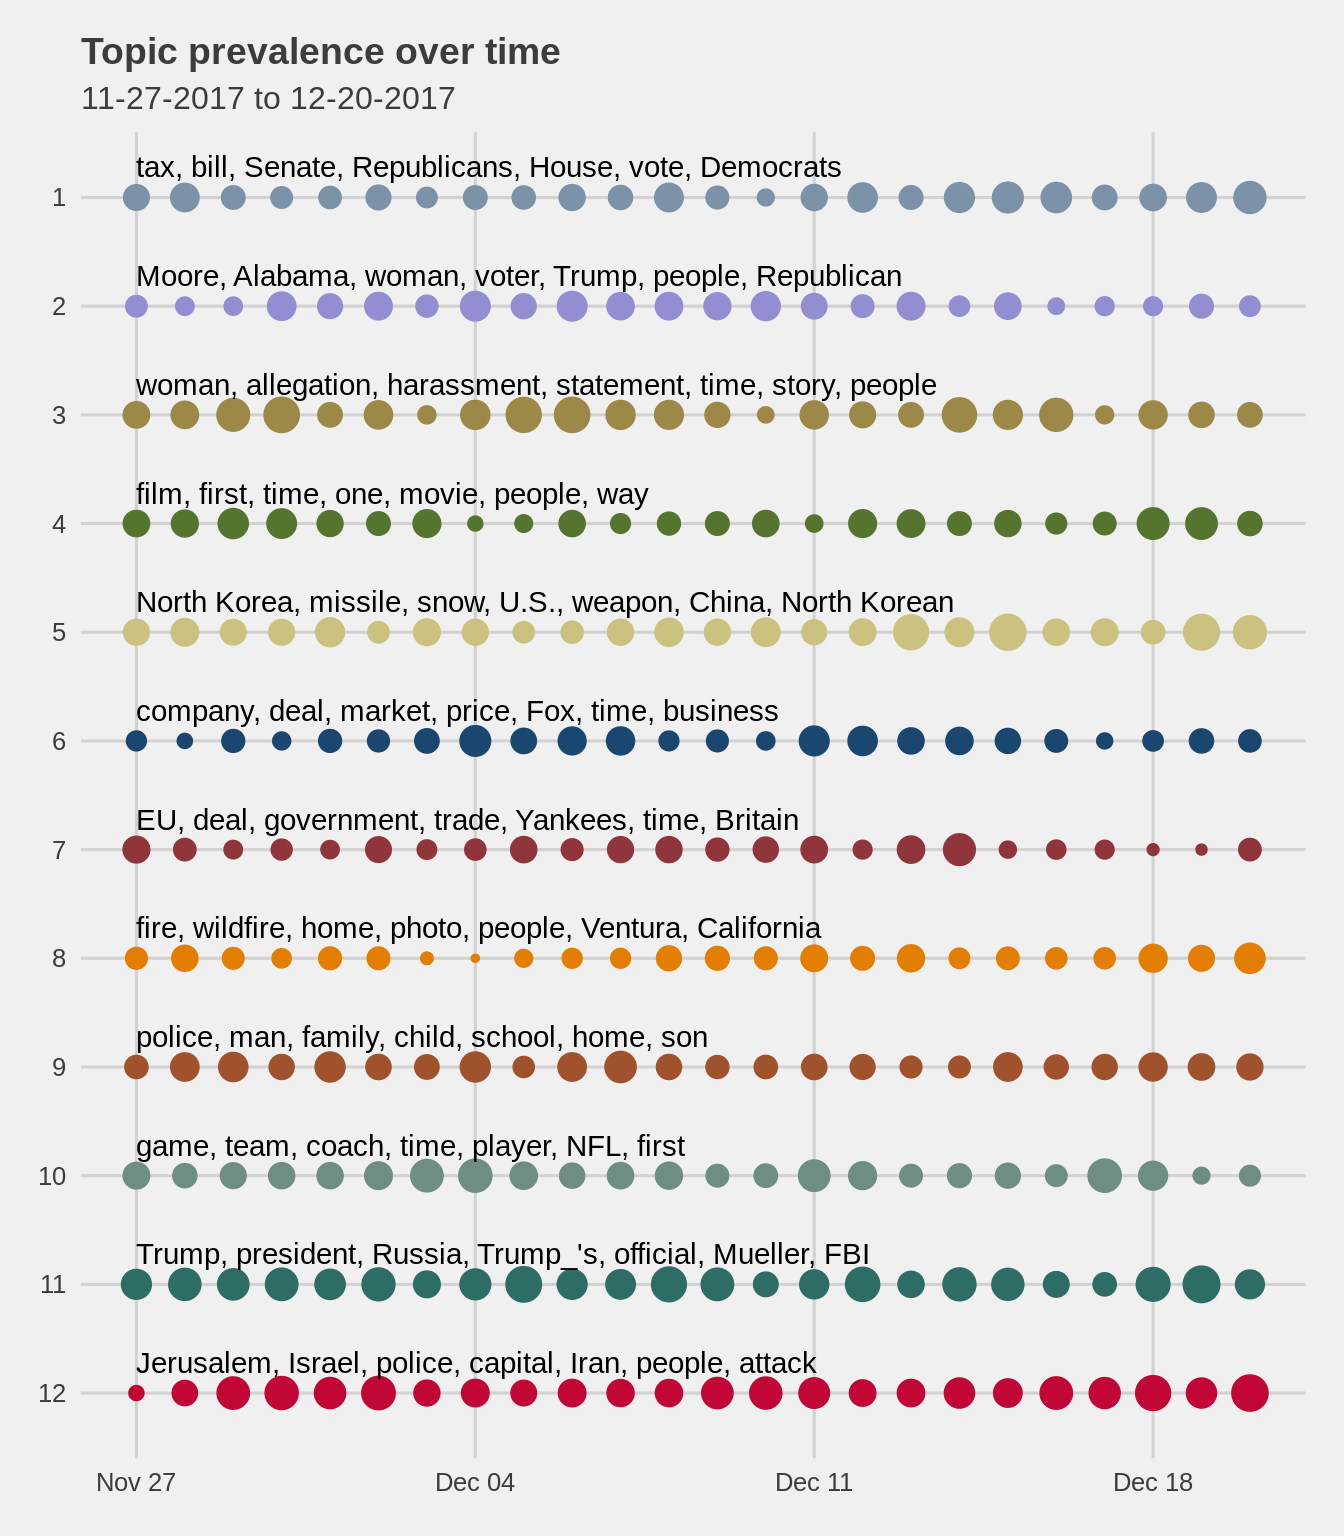
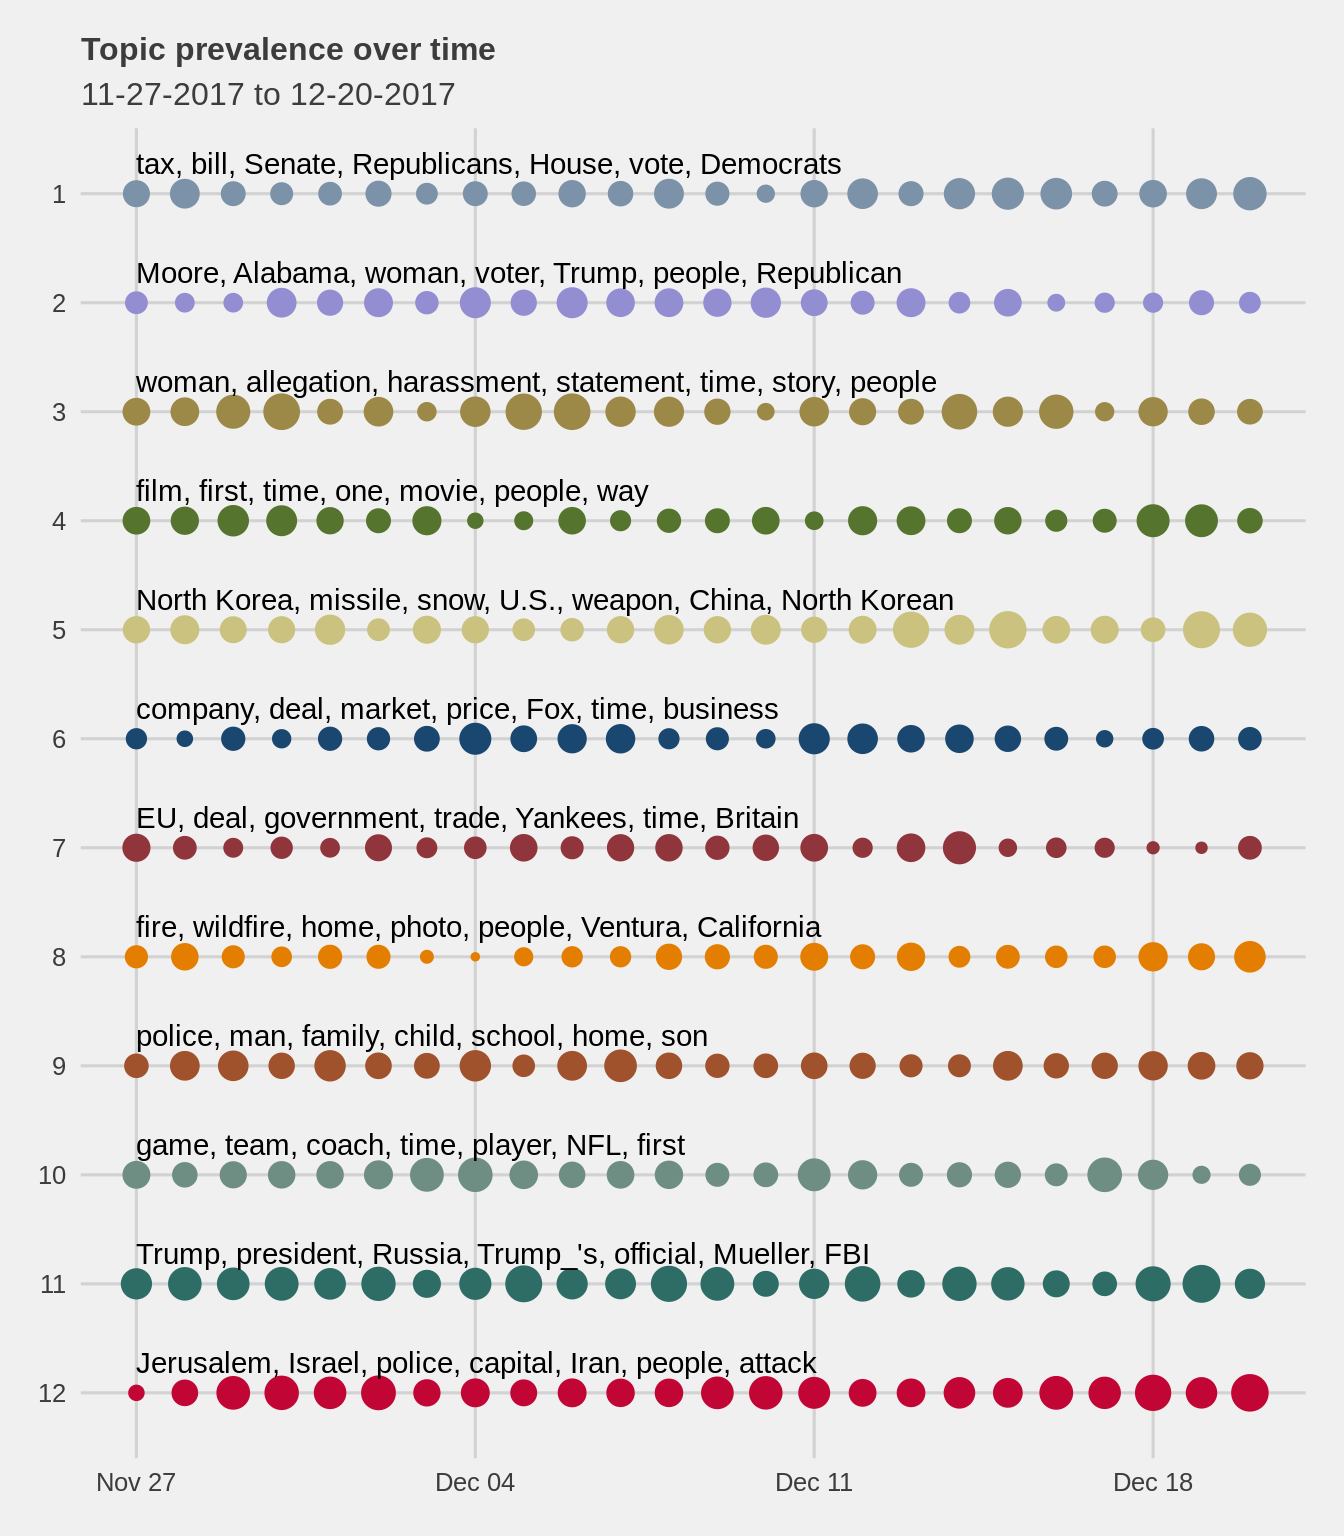
re

diff --git a/content/post/2018-01-07-static-and-historical-approaches-to-topic-modeling.html b/content/post/2018-01-07-static-and-historical-approaches-to-topic-modeling.html
@@ -19,7 +19,7 @@ banner: banners/topic.jpg
 <li><a href="#synchronic-application">Synchronic application</a></li>
 <li><a href="#diachronic-application">Diachronic application</a></li>
 <li><a href="#topic-clusters">Topic clusters</a></li>
-<li><a href="#quick-summary">quick summary</a></li>
+<li><a href="#quick-summary">Quick summary</a></li>
 <li><a href="#references">References</a></li>
 </ul>
 </div>
@@ -41,14 +41,14 @@ library(corpuslingr)#devtools::install_github(&quot;jaytimm/corpuslingr&quot;)</
 <div id="synchronic-application" class="section level2">
 <h2>Synchronic application</h2>
 <p>In our first example, we investigate topics in the annotated Slate Magazine corpus (ca 1996-2000, 1K texts, 1m words), available as <code>cdr_slate_ann</code> from the <code>corpusdatr</code> package. The corpus has been annotated using the <code>spacyr</code> package, and is functionally a synchronic (or static) corpus by virtue of not containing publication date information.</p>
-<p>The first step in building the model is to summarize our corpus; here, this means representing each document in the corpus in terms of its constitutent features and feature frequencies, ie, as a bag-of-words (BOW). To accomplish this task, we use the <code>clr_get_freq</code> function from the <code>corpuslingr</code> package. We set the lemma as our feature unit, and limit feature composition to nouns and entities.</p>
+<p><strong>The first step</strong> in building the model is to summarize our corpus; here, this means representing each document in the corpus in terms of its constitutent features and feature frequencies, ie, as a bag-of-words (BOW). To accomplish this task, we use the <code>clr_get_freq</code> function from the <code>corpuslingr</code> package. We set the lemma as our feature unit, and limit feature composition to nouns and entities.</p>
 <pre class="r"><code>dtm &lt;- corpusdatr::cdr_slate_ann %&gt;%
   spacyr::entity_consolidate() %&gt;%
   filter(tag %in% c(&quot;NN&quot;, &quot;NNS&quot;) | pos ==&#39;ENTITY&#39;)%&gt;%
   corpuslingr::clr_get_freq(agg_var=c(&#39;doc_id&#39;,&#39;lemma&#39;),
                             toupper=FALSE)%&gt;%
   arrange(doc_id)</code></pre>
-<p>Example portion of the corpus-as-BOW:</p>
+<p><strong>Example portion</strong> of the corpus-as-BOW:</p>
 <pre><code>##   doc_id   lemma txtf docf
 ## 1      1   noise   14   25
 ## 2      1     lip    9   24
@@ -71,7 +71,7 @@ library(corpuslingr)#devtools::install_github(&quot;jaytimm/corpuslingr&quot;)</
 ##   .. ..$ : chr [1:5434] &quot;noise&quot; &quot;lip&quot; &quot;talk&quot; &quot;walk&quot; ...
 ##   ..@ x       : num [1:161352] 14 1 1 1 1 1 1 1 1 2 ...
 ##   ..@ factors : list()</code></pre>
-<p>Lastly, we fit the model, specifying an eight topic solution:</p>
+<p>Lastly, we <strong>fit the model</strong>, specifying an eight topic solution:</p>
 <pre class="r"><code>static_topic &lt;- topicmodels::LDA(static_DTM, 
                                  k = 8, 
                                  control=list(seed=12)) #11</code></pre>
@@ -101,7 +101,7 @@ topicmodels::posterior(static_topic)$terms %&gt;%
     theme(plot.title = element_text(size=14)) +
     labs(title=&quot;Topic composition by feature&quot;) #</code></pre>
 <p><img src="/post/2018-01-07-static-and-historical-approaches-to-topic-modeling_files/figure-html/unnamed-chunk-8-1.png" width="672" /></p>
-<p>So, some curious times, the close of the 20th century: A lame-duck president in some hot water, presidential primaries, a war abroad. The model seems to paint a fairly clear picture of the socio-political happenings of the time period, and provides a nice macro-vantage from which to view/explore corpus content.</p>
+<p>So, <strong>some curious times</strong>, the close of the 20th century: A lame-duck president in some hot water, presidential primaries, a war abroad. The model seems to paint a fairly clear picture of the socio-political happenings of the time period, and provides a nice macro-vantage from which to view/explore corpus content.</p>
 </div>
 <div id="diachronic-application" class="section level2">
 <h2>Diachronic application</h2>
@@ -113,7 +113,7 @@ Corpus and some descriptives
 </p>
 <p>The corpus is comprised of web-based news articles published during a three-week time period (11-27/17 to 12/20/17). Articles were retrieved using my <code>quicknews</code> package, which leverages Goggle News’ RSS feed to direct search, and annotated using the <code>spacyr</code> package.</p>
 <p>For the sake of avoiding copyright issues, each constituent article in the corpus has already been reduced to a BOW. The corpus is comprised of ~1,500 texts, ~1.3 million words, and ~200 unique media sources.</p>
-<p>Example corpus metadata:</p>
+<p>Example corpus <strong>metadata</strong>:</p>
 <pre class="r"><code>head(cdr_gnews_meta)[1:4]</code></pre>
 <pre><code>##   doc_id   pubdates          source
 ## 1      1 2017-11-27  New York Times
@@ -129,7 +129,7 @@ Corpus and some descriptives
 ## 4                           Melania Trump unveils White House holiday decor
 ## 5        Trump&#39;s latest conspiracy? The &#39;Access Hollywood&#39; tape was a fake!
 ## 6                  Trump attacks media in his first post-Thanksgiving tweet</code></pre>
-<p>Some basic corpus descriptives:</p>
+<p>Some basic <strong>corpus descriptives</strong>:</p>
 <pre class="r"><code>cdr_gnews_meta%&gt;%
   group_by(pubdates) %&gt;%
   summarize_at(vars(docN),funs(sum))%&gt;%
@@ -140,7 +140,7 @@ Corpus and some descriptives
   labs(title=&quot;Daily corpus size&quot;, 
        subtitle = &quot;11-27-17 to 12-20-17&quot;)</code></pre>
 <p><img src="/post/2018-01-07-static-and-historical-approaches-to-topic-modeling_files/figure-html/unnamed-chunk-10-1.png" width="672" /></p>
-<p>The corpus is comprised predominantly of articles from the Washington Post, CNN, and the New York Times. It is unclear if these sources generate the most content, or if this is a bias of the news aggregator, or if these sites care less about folks scraping content from their sites.</p>
+<p><strong>The corpus is comprised</strong> predominantly of articles from the Washington Post, CNN, and the New York Times. It is unclear if these sources generate the most content, or if this is a bias of the news aggregator, or if these sites care less about folks scraping content from their sites.</p>
 <pre class="r"><code>cdr_gnews_meta %&gt;%
   group_by(source) %&gt;%
   summarize_at(vars(docN),funs(sum))%&gt;%
@@ -165,14 +165,14 @@ Topic Model
   topicmodels::LDA(., 
                    k = 12, 
                    control = list(verbose = 0, seed=999))</code></pre>
-<p>Extract the topic summary of the model:</p>
+<p><strong>Extract</strong> the topic summary of the model:</p>
 <pre class="r"><code>topic_summary &lt;- data.frame(topicmodels::terms(hist_topic,7)) %&gt;%
   gather(key=&#39;topic&#39;,value=&#39;val&#39;,Topic.1:Topic.12) %&gt;%
   group_by(topic)%&gt;%
   summarize (dims = paste(val,collapse=&#39;, &#39;))%&gt;%
   mutate(topic = as.numeric(gsub(&#39;Topic.&#39;,&#39;&#39;,topic)))%&gt;%
   arrange(topic)</code></pre>
-<p>Topics over the three week period:</p>
+<p><strong>Topics</strong> over the three week period:</p>
 <pre><code>## # A tibble: 12 x 1
 ##    dims                                                         
 ##    &lt;chr&gt;                                                        
@@ -188,13 +188,13 @@ Topic Model
 ## 10 game, team, coach, time, player, NFL, first                  
 ## 11 Trump, president, Russia, Trump_&#39;s, official, Mueller, FBI   
 ## 12 Jerusalem, Israel, police, capital, Iran, people, attack</code></pre>
-<p>So a busy three weeks. The special Senate election in Alabama (and surrounding controversey), wildfires in California, North Korea, the Mueller investigation, tax reform, the #MeToo movement.</p>
+<p><strong>So a busy three weeks</strong>. The special Senate election in Alabama (and surrounding controversey), wildfires in California, North Korea, the Mueller investigation, tax reform, the #MeToo movement.</p>
 <p>
 <h4>
 Topic prevalence historically
 </h4>
 </p>
-<p>In order to quantify the prevalence of these topics over time, we shift focus from topic composition in terms of words/features to document composition in terms of topics. So, we first extract the posterior probabilities of the topics for each document; then we join corpus metadata and topic summary details.</p>
+<p>In order to quantify the <strong>prevalence of these topics over time</strong>, we shift focus from topic composition in terms of words/features to document composition in terms of topics. So, we first extract the posterior probabilities of the topics for each document; then we join corpus metadata and topic summary details.</p>
 <pre class="r"><code>hist_beta &lt;- topicmodels::posterior(hist_topic)$topics %&gt;%
   data.frame() %&gt;%
   mutate(doc_id = row.names(.))%&gt;%
@@ -203,7 +203,7 @@ Topic prevalence historically
   gather(key=&quot;topic&quot;,value=&quot;val&quot;,X1:X12) %&gt;%
   mutate(topic = as.numeric(gsub(&#39;X&#39;,&#39;&#39;,topic)))%&gt;%
   left_join(topic_summary)</code></pre>
-<p>Based on this set of model results, each document in our corpus can be represented as a composite of the sixteen topics summarized above; topic composites for an example set of texts are illustrated in the figure below. Per the figure, text 183 is comprised (in varying degrees) of topics 2, 3, 4, and 9.</p>
+<p>Based on this set of model results, each document in our corpus can be represented as <strong>a composite</strong> of the sixteen topics summarized above; topic composites for an example set of texts are illustrated in the figure below. Per the figure, text 183 is comprised (in varying degrees) of topics 2, 3, 4, and 9.</p>
 <pre class="r"><code>hist_beta %&gt;%
   filter(doc_id %in% c(&#39;183&#39;, &#39;631&#39;,&#39;896&#39;)) %&gt;%
   ggplot(aes(x=reorder(paste(topic,dims, sep=&quot; - &quot;), -topic), 
@@ -218,13 +218,13 @@ Topic prevalence historically
   labs(title=&quot;Text by topic&quot;) +
   theme(legend.position=&quot;none&quot;)</code></pre>
 <p><img src="/post/2018-01-07-static-and-historical-approaches-to-topic-modeling_files/figure-html/unnamed-chunk-16-1.png" width="672" /></p>
-<p>Topic prevalence over time, then, is simply the aggregate of these topic probabilities for each document by publication date.</p>
+<p><strong>Topic prevalence over time</strong>, then, is simply the aggregate of these topic probabilities for each document by publication date.</p>
 <pre class="r"><code>agg_hist_beta &lt;- hist_beta %&gt;%
   group_by(pubdates,topic,dims) %&gt;% 
   summarize_at(vars(val),funs(sum))%&gt;%
   ungroup()</code></pre>
 <p>Finally, we plot the results. The size of plot points represents aggregate posterior probabilities, which can be interpreted as the likelihood that some article <strong>a</strong> written on day <strong>d</strong> was about some topic <strong>z</strong>.</p>
-<p>The top six words associated with each topic are displayed as well. For a relatively small corpus (comprised of a wide range of content), the plot provides a nice overview of variation in topic prevalence over time.</p>
+<p><strong>The top six words</strong> associated with each topic are displayed as well. For a relatively small corpus (comprised of a wide range of content), the plot provides a nice overview of variation in topic prevalence over time.</p>
 <pre class="r"><code>p &lt;- ggplot(agg_hist_beta) +
      geom_point(aes(x = pubdates, 
                     y = reorder(topic,-topic), 
@@ -240,7 +240,7 @@ p + geom_text(data = agg_hist_beta[agg_hist_beta$pubdates == &quot;2017-11-27&qu
   labs(title=&quot;Topic prevalence over time&quot;, 
        subtitle=&quot;11-27-2017 to 12-20-2017&quot;)+
   theme(legend.position=&quot;none&quot;, 
-        plot.title = element_text(size=14))</code></pre>
+        plot.title = element_text(size=12))</code></pre>
 <p><img src="/post/2018-01-07-static-and-historical-approaches-to-topic-modeling_files/figure-html/unnamed-chunk-18-1.png" width="672" /></p>
 </div>
 <div id="topic-clusters" class="section level2">
@@ -249,7 +249,7 @@ p + geom_text(data = agg_hist_beta[agg_hist_beta$pubdates == &quot;2017-11-27&qu
 <pre class="r"><code>cor_mat &lt;- data.frame(posterior(hist_topic)$topics)%&gt;%
    `colnames&lt;-`(paste(topic_summary$topic,topic_summary$dims, sep=&quot; - &quot;)) %&gt;%
     cor(.)</code></pre>
-<p>Next, we compute the distances (ie, dissimilarities) between topic-pairs, and perform hierarchical clustering analysis on the resulting matrix. We use the <code>ggdendro</code> package to plot results. Per plot below, some intuitive relationships, some less so.</p>
+<p>Next, we compute the distances (ie, dissimilarities) between topic-pairs, and perform <strong>hierarchical clustering analysis</strong> on the resulting matrix. We use the <code>ggdendro</code> package to plot results. Per plot below, some intuitive relationships, some less so.</p>
 <pre class="r"><code>library(ggdendro)
 hclust(dist(cor_mat)) %&gt;%
   ggdendrogram(., rotate=TRUE) + 
@@ -257,7 +257,7 @@ hclust(dist(cor_mat)) %&gt;%
 <p><img src="/post/2018-01-07-static-and-historical-approaches-to-topic-modeling_files/figure-html/unnamed-chunk-20-1.png" width="672" /></p>
 </div>
 <div id="quick-summary" class="section level2">
-<h2>quick summary</h2>
+<h2>Quick summary</h2>
 <p>A brief outline for quick topic modeling, with some different applications for synchronic and diachronic corpora. For a smarter discussion of underlying assumptions and maths, see <span class="citation">Hornik and Grün (<a href="#ref-hornik2011topicmodels">2011</a>)</span>.</p>
 </div>
 <div id="references" class="section level2 unnumbered">
